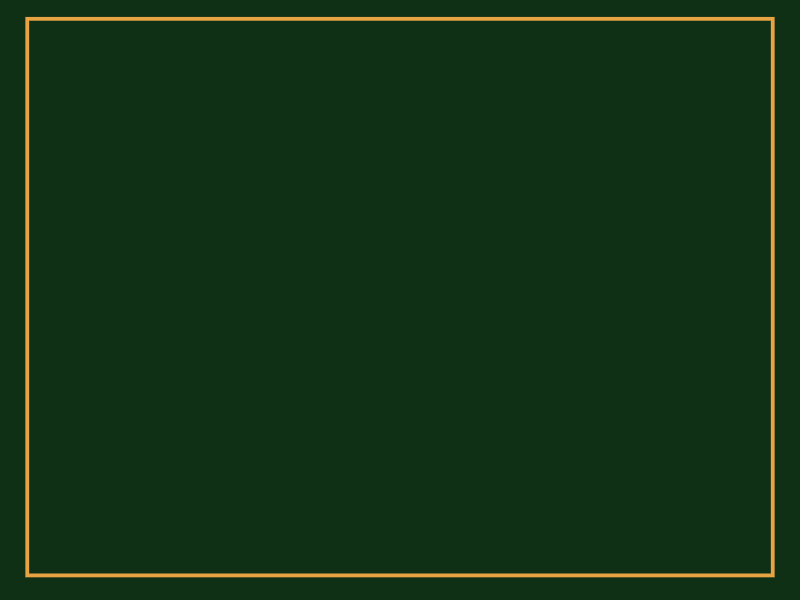
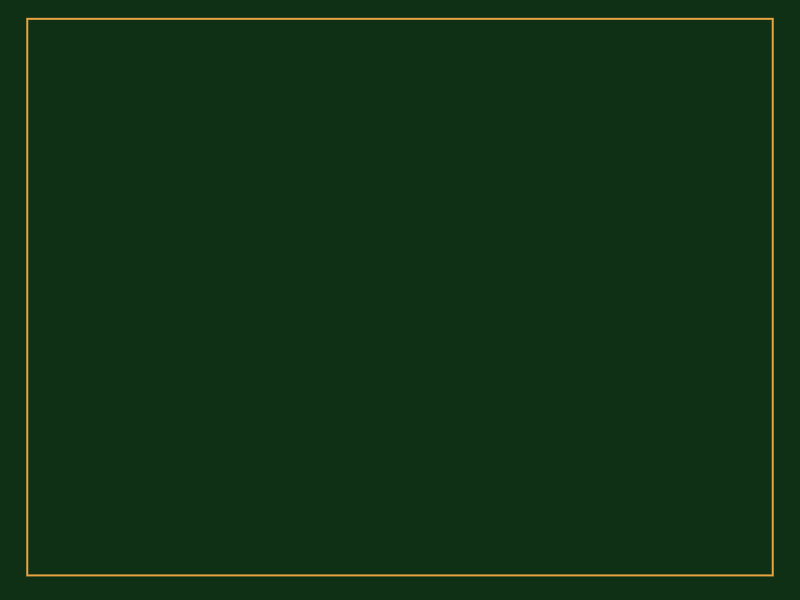
Style: Changement font / Mises jetons / Preparation boutons en jeu pixel art

Changed region(s): [[0.0312, 0.03, 0.9688, 0.99]]

diff --git a/main.py b/main.py
@@ -28,7 +28,7 @@ tour_joueur = None
 # pygame config affichage
 screen = pygame.display.set_mode((800, 600))
 pygame.display.set_caption(" BLACKJACK ")
-font = pygame.font.SysFont("Arial", 24)
+font = pygame.font.Font("assets/fonts/pixel_font.ttf", 14)
 background_image = pygame.image.load("assets/images/fond/background.png")
 fond_image = pygame.transform.scale(background_image, screen.get_size())
 
@@ -41,15 +41,27 @@ jeu_initialise = False
 message_erreur_mise = False
 
 
-mises_possibles = [25, 50, 100]
-boutons_mises = [
-    (Bouton(50, 300, 100, 40, "25 €", (26, 35, 126), (255, 255, 255), font), 25),
-    (Bouton(160, 300, 100, 40, "50 €", (26, 35, 126), (255, 255, 255), font), 50),
-    (Bouton(270, 300, 100, 40, "100 €", (26, 35, 126), (255, 255, 255), font), 100),
+jetons = [
+    {"chemin": "assets/images/jetons/jeton_rouge.png", "valeur": 25, "pos": (160, 280)},
+    {"chemin": "assets/images/jetons/jeton_vert.png",  "valeur": 50, "pos": (270, 280)},
+    {"chemin": "assets/images/jetons/jeton_noir.png",  "valeur": 100, "pos": (380, 280)},
 ]
-#Version dessinée bouton_lancer_partie = Bouton(400, 300, 200, 40, "Lancer la partie", (83, 109, 254), (255, 255, 255), font, visible=True)
+for j in jetons:
+    j["image"] = pygame.image.load(j["chemin"]).convert_alpha()
+    j["image"] = pygame.transform.scale(j["image"], (80, 80))
+    j["rect"] = j["image"].get_rect(topleft=j["pos"])
+
+def afficher_jetons(screen, jetons, font):
+    for j in jetons:
+        # Affichage de l'image
+        screen.blit(j["image"], j["pos"])
+        # Affichage de la valeur en dessous
+        texte = font.render(f"{j['valeur']} €", True, (255, 255, 255))
+        text_rect = texte.get_rect(center=(j["rect"].centerx, j["rect"].bottom + 12))
+        screen.blit(texte, text_rect)
+
 bouton_lancer_partie = pygame.image.load("assets/images/boutons/lancer_partie_btn.png").convert_alpha()
-position_bouton = (400, 290)
+position_bouton = (490, 290)
 rect_bouton = bouton_lancer_partie.get_rect(topleft=position_bouton)
 
 #clock framerate pour limiter
@@ -111,8 +123,8 @@ def afficher_mains_joueur(joueur):
              pygame.draw.rect(
                 screen,
                 (255, 0, 0),
-                (position_x_main -10, position_y_cartes, 140, 120 + 30 * len(main)),
-                2
+                (position_x_main  -10, position_y_cartes, 140, 120 + 30 * len(main)),
+                1
             )
 
 def afficher_mises(mises):
@@ -185,13 +197,13 @@ while running:
             #Clic Bouton Mises
             if saisie_mise_active:
                 bouton_restart.visible = False
-                for bouton, mise in boutons_mises:
-                    if bouton.est_clique(pos):
+                for j in jetons:
+                    if j["rect"].collidepoint(pos):
                         solde_actuel = gestion_partie.partie.solde if gestion_partie.partie else gestion_partie.solde_initial
-                        if mise_choisie + mise > solde_actuel  :
-                            print(f"Solde insuffisant")
+                        if mise_choisie + j["valeur"] > solde_actuel:
+                            print("Solde insuffisant")
                         else:
-                            mise_choisie += mise
+                            mise_choisie += j["valeur"]
                             print(f"Mise choisie : {mise_choisie} €")
                             besoin_rafraichissement = True
                         break
@@ -270,13 +282,12 @@ while running:
 
         #Aff Boutons Mises avant débit de partie
         if saisie_mise_active:
-            for bouton, _ in boutons_mises:
-                bouton.dessiner(screen)
+            afficher_jetons(screen, jetons, font)
             #bouton_lancer_partie.dessiner(screen)
             screen.blit(bouton_lancer_partie, position_bouton)
 
             texte_mise = font.render(f"Mise totale : {mise_choisie} €", True, (211, 211, 211))
-            screen.blit(texte_mise, (50, 200))
+            screen.blit(texte_mise, (270, 200))
             #Erreur si pas de mise
             if message_erreur_mise:
                 afficher_message_mise()

diff --git a/jeu/bouton.py b/jeu/bouton.py
@@ -16,7 +16,8 @@ class Bouton:
         if self.image is not None:
             surface.blit(self.image, self.rect)
         else:
-            pygame.draw.rect(surface, self.couleur_fond, self.rect)
+            if self.couleur_fond is not None:
+                pygame.draw.rect(surface, self.couleur_fond, self.rect)
             texte_surface = self.font.render(self.texte, True, self.couleur_texte)
             text_rect = texte_surface.get_rect(center=self.rect.center)
             surface.blit(texte_surface, text_rect)
